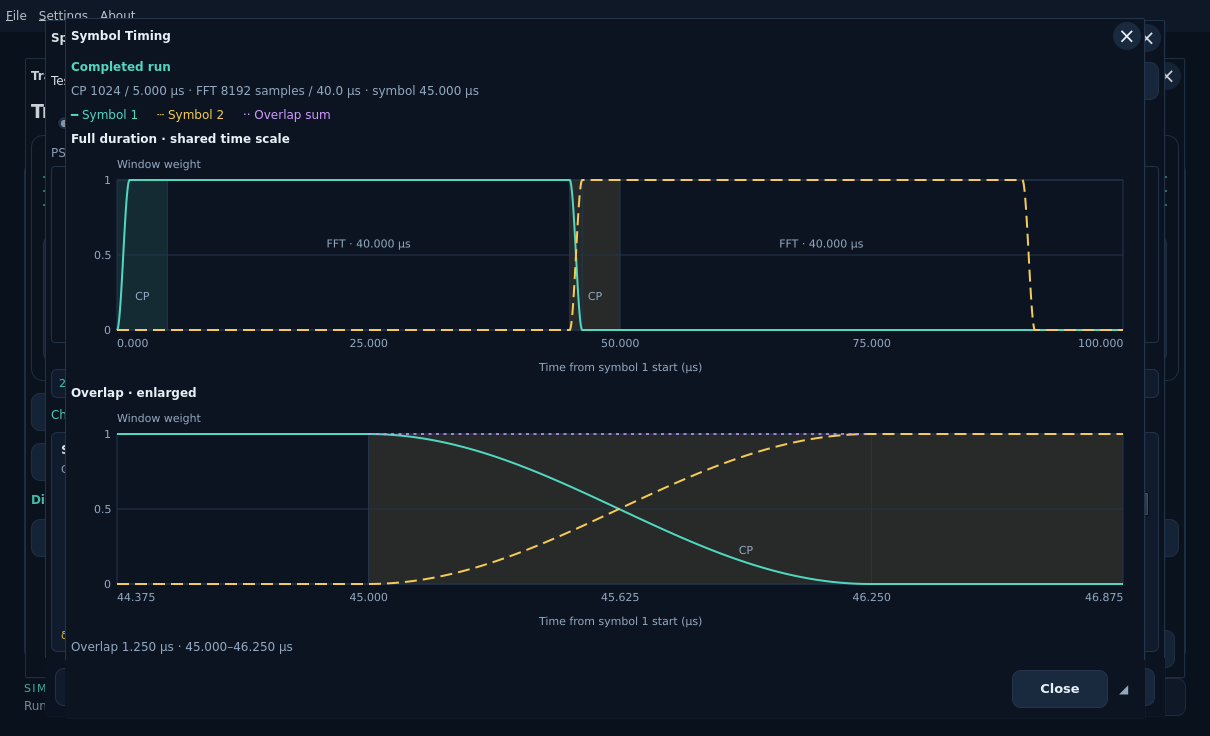
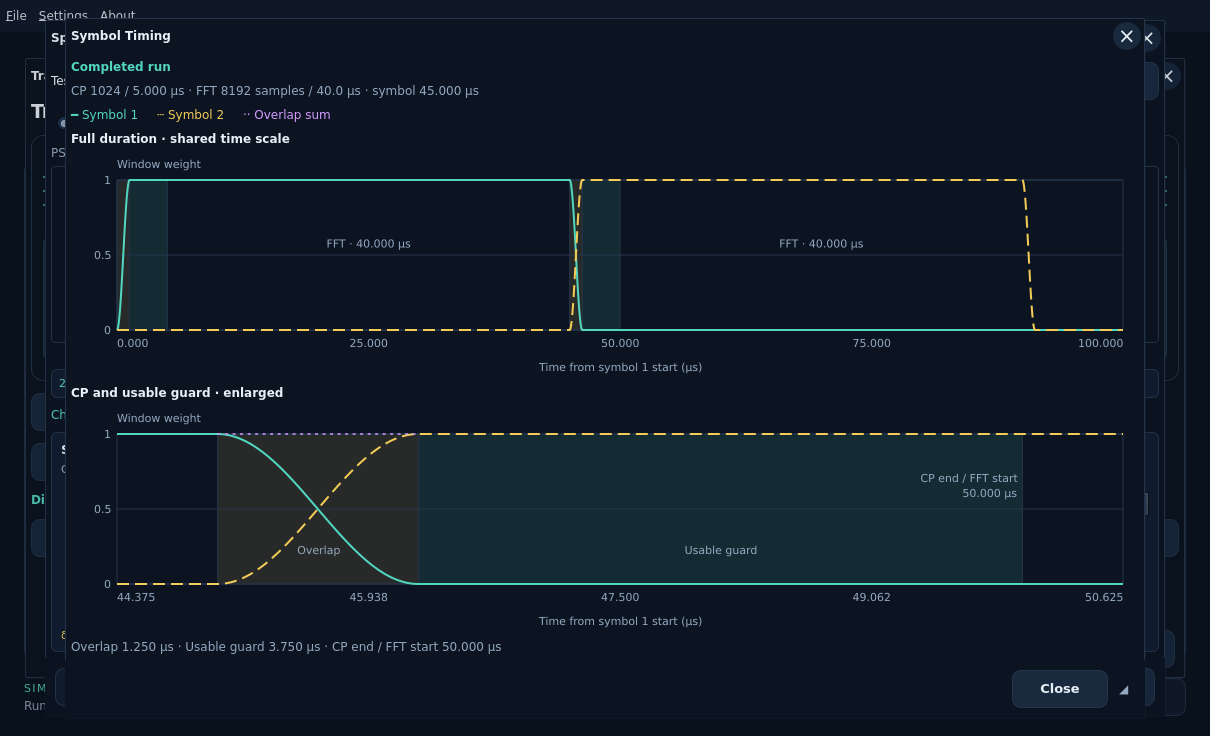
BugFix: Clarify cyclic prefix and usable guard - Separate overlap and usable guard shading - Show the full CP and label FFT start - Update architecture, guides and screenshots - Tests: 61 Rust and 54 QML checks pass - Verify Clippy, native build and dark/light views

diff --git a/apps/qt/qml/instruments/spectrum/SymbolTimingPlot.qml b/apps/qt/qml/instruments/spectrum/SymbolTimingPlot.qml
@@ -19,14 +19,14 @@ Canvas {
     onVisibleChanged: if (visible) requestPaint()
     Connections { target:plot.theme; function onDarkChanged() { plot.requestPaint() } }
     Accessible.role: Accessible.Graphic
-    Accessible.name: detail ? "Adjacent symbol overlap" : "Two complete transmit windows"
+    Accessible.name: detail ? "Adjacent symbol overlap and usable guard" : "Two complete transmit windows"
     onPaint: {
         const context=getContext("2d");context.reset()
         const left=miniature ? 24 : 46, top=miniature ? 8 : 24
         const w=width-left-16,h=height-top-(miniature ? 24 : 46)
         if (w<=0 || h<=0 || !(graph.points || []).length) return
         for (const band of graph.bands || []) {
-            context.fillStyle=band.symbol===0 ? theme.accent : theme.statusAttention
+            context.fillStyle=band.kind==="guard" ? theme.accent : theme.statusAttention
             context.globalAlpha=.12
             context.fillRect(left+band.x*w,top,(band.end_x-band.x)*w,h)
         }
@@ -64,12 +64,27 @@ Canvas {
         if (!miniature) {
             context.textAlign="center";context.fillText("Time from symbol 1 start (µs)",left+w/2,height-5)
             context.textAlign="left";context.fillText("Window weight",left,12)
+            if (detail) {
+                for (const marker of graph.markers || []) {
+                    const x=left+marker.x*w
+                    context.textAlign="left"
+                    if (marker.label==="CP end / FFT start") {
+                        context.textAlign=marker.x>.65 ? "right" : "left"
+                        const labelX=x+(marker.x>.65 ? -5 : 5)
+                        context.fillText(marker.label,labelX,top+h*.32)
+                        context.fillText(marker.time_label,labelX,top+h*.32+15)
+                    }
+                }
+            }
             for (const label of graph.fft_labels || []) {
                 context.textAlign="center";context.fillText(label.text,left+label.x*w,top+h*.45)
             }
             for (const band of graph.bands || []) {
                 if ((band.end_x-band.x)*w>28) {
-                    context.textAlign="center";context.fillText("CP",left+(band.x+band.end_x)*w/2,top+h*.8)
+                    const label=band.label || ""
+                    if (context.measureText(label).width+8<(band.end_x-band.x)*w) {
+                        context.textAlign="center";context.fillText(label,left+(band.x+band.end_x)*w/2,top+h*.8)
+                    }
                 }
             }
         }

diff --git a/apps/qt/tests/tst_workbench.qml b/apps/qt/tests/tst_workbench.qml
@@ -109,7 +109,7 @@ Pane {
         function poll() { return JSON.stringify({status: ready ? "complete" : "attention", reason: ready ? "Accepted source, profile and settings form a transmitter" : "Accept compatible OCD, DPD and PRBS-TX inputs to configure the transmitter.", tap_name: "TX Output", tap_id: "tx.overlap_add.samples", tap_description: "Complex baseband I/Q before channel", busy: busy, can_generate: ready && !busy, has_result: resultAvailable, result_token: token, progress: busy ? 0.5 : 0, message: ""}) }
         function timing(velocity) {
             if (!resultAvailable) { return JSON.stringify({points:[],ticks:[],error:"Run simulation"}) }
-            const graph={points:[{x:0,first:1,second:0,sum:null,readout:"0 µs"},{x:0.5,first:0.5,second:0.5,sum:1,readout:"Overlap"},{x:1,first:0,second:1,sum:null,readout:"100 µs"}],ticks:[{x:0,label:"0.000"},{x:1,label:"100.000"}],bands:[{x:0,end_x:0.05,symbol:0}],markers:[]}
+            const graph={points:[{x:0,first:1,second:0,sum:null,readout:"0 µs"},{x:0.5,first:0.5,second:0.5,sum:1,readout:"Overlap"},{x:1,first:0,second:1,sum:null,readout:"100 µs"}],ticks:[{x:0,label:"0.000"},{x:1,label:"100.000"}],bands:[{x:0,end_x:0.02,kind:"overlap",label:"Overlap"},{x:0.02,end_x:0.05,kind:"guard",label:"Usable guard"}],markers:[]}
             return JSON.stringify({source:"Transmitter preview",window:{overview:graph,detail:graph,overlap_label:"Overlap 0.625 µs"},points:[{x:0,coefficient:0},{x:0.2,coefficient:1},{x:1,coefficient:1}],ticks:[{x:0,label:"0"},{x:1,label:"3.125 µs"}],prefix_fraction:0.8,roll_off_fraction:0.2,overview:"CP 512 · FFT 8192 samples",roll_label:"δ 0.625 µs",guard_label:"Flat guard 1.875 µs",budget_label:"Ideal guard budget: 1.875 µs",extra_path:isNaN(velocity) ? "Unknown VF" : velocity === 0.87 ? "1604 ft" : "1512 ft",reflection_spacing:isNaN(velocity) ? "Unknown VF" : velocity === 0.87 ? "802 ft" : "756 ft"})
         }
         function view(start, count, captureAxis) {

diff --git a/apps/qt/qml/instruments/spectrum/SymbolTimingDialog.qml b/apps/qt/qml/instruments/spectrum/SymbolTimingDialog.qml
@@ -37,7 +37,7 @@ WorkbenchDialog {
         }
         Label {text:"Full duration · shared time scale";color:dialog.theme.text;font.bold:true}
         SymbolTimingPlot {objectName:"symbolTimingOverview";theme:dialog.theme;graph:dialog.windowData.overview || ({});Layout.fillWidth:true;Layout.fillHeight:true;Layout.minimumHeight:100}
-        Label {text:"Overlap · enlarged";color:dialog.theme.text;font.bold:true}
+        Label {text:"CP and usable guard · enlarged";color:dialog.theme.text;font.bold:true}
         SymbolTimingPlot {objectName:"symbolTimingOverlap";theme:dialog.theme;graph:dialog.windowData.detail || ({});detail:true;Layout.fillWidth:true;Layout.fillHeight:true;Layout.minimumHeight:100}
         Label {text:dialog.windowData.overlap_label || "";color:dialog.theme.muted;Layout.fillWidth:true;wrapMode:Text.WordWrap}
     }

diff --git a/apps/qt/src/instruments/spectrum/symbol_timing.rs b/apps/qt/src/instruments/spectrum/symbol_timing.rs
@@ -28,13 +28,13 @@ pub(crate) fn project(geometry: &WaveformGeometry) -> Value {
     let maximum_roll = usize::from(*ROLL_OFF_SAMPLES.last().unwrap());
     let margin = maximum_roll / 2;
     let detail_start = stride.saturating_sub(margin);
-    let detail_end = stride + maximum_roll + margin;
+    let detail_end = stride + usize::from(*CYCLIC_PREFIX_SAMPLES.last().unwrap()) + margin;
     json!({
         "prefix_us":microseconds(prefix),"roll_us":microseconds(roll),
         "fft_us":microseconds(geometry.fft_samples()),"symbol_us":microseconds(stride),
         "overview":plot(&window, geometry, 0, full_end),
         "detail":plot(&window, geometry, detail_start, detail_end),
-        "overlap_label":format!("Overlap {:.3} µs · {:.3}–{:.3} µs",microseconds(roll),microseconds(stride),microseconds(stride+roll)),
+        "overlap_label":format!("Overlap {:.3} µs · Usable guard {:.3} µs · CP end / FFT start {:.3} µs",microseconds(roll),microseconds(prefix-roll),microseconds(stride+prefix)),
         "origin_note":"Window weights, not RF signal amplitude."
     })
 }
@@ -93,18 +93,37 @@ fn plot(window: &TransmitWindow, geometry: &WaveformGeometry, start: usize, end:
         .collect::<Vec<_>>();
     let bands = [0, stride]
         .into_iter()
-        .enumerate()
-        .filter_map(|(symbol, origin)| {
-            let left = origin.max(start);
-            let right = (origin + prefix).min(end);
-            (right > left)
-                .then(|| json!({"x":coordinate(left),"end_x":coordinate(right),"symbol":symbol}))
+        .flat_map(|origin| {
+            [
+                (origin, origin + roll, "overlap", "Overlap"),
+                (origin + roll, origin + prefix, "guard", "Usable guard"),
+            ]
+            .into_iter()
+            .filter_map(move |(left, right, kind, label)| {
+                let left = left.max(start);
+                let right = right.min(end);
+                (right > left).then(|| {
+                    json!({"x":coordinate(left),"end_x":coordinate(right),
+                        "kind":kind,"label":label})
+                })
+            })
         })
         .collect::<Vec<_>>();
-    let markers = [prefix, stride, stride + roll, stride + prefix]
+    let markers = [0, stride]
         .into_iter()
-        .filter(|index| *index >= start && *index <= end)
-        .map(|index| json!({"x":coordinate(index)}))
+        .flat_map(|origin| {
+            [
+                (origin, "CP start"),
+                (origin + roll, "Overlap end"),
+                (origin + prefix, "CP end / FFT start"),
+            ]
+            .into_iter()
+            .filter(|(index, _)| *index >= start && *index <= end)
+            .map(|(index, label)| {
+                json!({"x":coordinate(index),"label":label,
+                    "time_label":format!("{:.3} µs",microseconds(index))})
+            })
+        })
         .collect::<Vec<_>>();
     let fft_labels = [0,stride].into_iter().filter_map(|origin| {
         let left = origin+prefix;
@@ -136,6 +155,25 @@ mod tests {
                     let geometry = WaveformGeometry::new(&settings).unwrap();
                     let report = project(&geometry);
                     let overview = &report["overview"];
+                    let detail = &report["detail"];
+                    let cp_end_us = microseconds(geometry.stride_samples() + usize::from(prefix));
+                    assert!(detail["end_us"].as_f64().unwrap() > cp_end_us);
+                    let guard = detail["bands"]
+                        .as_array()
+                        .unwrap()
+                        .iter()
+                        .find(|band| band["kind"] == "guard")
+                        .unwrap();
+                    let span =
+                        detail["end_us"].as_f64().unwrap() - detail["start_us"].as_f64().unwrap();
+                    let guard_us =
+                        (guard["end_x"].as_f64().unwrap() - guard["x"].as_f64().unwrap()) * span;
+                    assert!((guard_us - f64::from(prefix - roll) / 204.8).abs() < 1e-12);
+                    assert!(detail["markers"]
+                        .as_array()
+                        .unwrap()
+                        .iter()
+                        .any(|marker| marker["label"] == "CP end / FFT start"));
                     assert!(overview["points"].as_array().unwrap().len() <= 550);
                     assert!(
                         overview["end_us"].as_f64().unwrap()

diff --git a/docs/user/spectrum-analyzer.md b/docs/user/spectrum-analyzer.md
@@ -104,8 +104,10 @@ See [workbench readiness](workbench.md), [PRBS-TX](source-input.md) and
 Below the PSD, **Symbol Timing · Two Symbols** shows two complete transmit
 windows on one real time axis. Click the graph, or focus it and press Space or
 Enter, to open **Symbol Timing**. Drag the lower-right corner to resize the
-popup. It contains a full-duration view and an enlarged overlap view, with CP
-regions shaded. Symbol 1 is solid, Symbol 2 dashed, and the overlap sum dotted.
+popup. It contains a full-duration view and an enlarged CP view. Amber marks
+the overlap; teal marks the remaining usable flat guard. The labeled CP end
+is the FFT start, not the edge of the plot. Symbol 1 is solid, Symbol 2 dashed,
+and the overlap sum dotted.
 Hover for the displayed time and actual window weights. These are dimensionless
 weights, not the time-domain I/Q signal amplitude.
 
@@ -116,7 +118,10 @@ can be inspected without running payload simulation. Draft edits do not change
 the graph. The full time scale stays fixed for each FFT size; CP changes move
 symbol starts and roll-off changes alter the taper/overlap width. The detail
 view keeps a fixed span relative to the second-symbol start so roll-off changes
-remain visible. CP minus roll-off is the flat guard interval.
+remain visible. It includes the full CP and some FFT time after it. CP minus
+roll-off is the flat guard interval. With an 8192-sample FFT and CP512/RP128,
+the second symbol starts at 42.500 µs, overlap ends at 43.125 µs and the CP ends at 45.000 µs.
+The usable guard is therefore 1.875 µs; useful FFT time begins at 45.000 µs.
 
 ![Expanded symbol timing and overlap](../images/workbench/symbol-timing-expanded-dark.png)
 

diff --git a/docs/development/features/symbol-timing-popup/design.md b/docs/development/features/symbol-timing-popup/design.md
@@ -14,8 +14,8 @@ edits do not apply. Applying settings invalidates old results and refreshes the
 current timing projection without requiring payload simulation. VF changes only
 the cable-distance estimate. Keep timing and cable configuration read-only here.
 
-Return bounded overview/detail curves, labels, ticks and CP bands; no changes to
-simulation, core public APIs or WB JSON. Test all supported CP/RP pairs and both
+Return bounded overview/detail curves, labels, ticks and overlap/usable-guard
+bands; no changes to simulation, core public APIs or WB JSON. Test all supported CP/RP pairs and both
 FFTs, overlap complementarity from independent expectations, actual core sample
 identity, domains, configuration refresh, origin labels and VF invariance. Check
 QML navigation, keyboard, resize bounds and empty states, then native dark/light
@@ -27,7 +27,10 @@ The existing compact plot is now a full two-window overview and opens the
 resizable popup by click, Space or Enter. Separate graph and popup QML files
 share the same bounded Rust data. The overview domain is 100 µs for 8192 FFT
 samples and 60 µs for 4096; changing CP/RP does not rescale it. Overlap detail
-uses a 512-sample span relative to the second-symbol start.
+uses a fixed 1280-sample span relative to the second-symbol start, including
+the full maximum CP and a margin after FFT start. Amber marks overlap, teal
+marks usable flat guard (CP minus roll-off), and CP end / FFT start is labeled.
+The plot edge never represents an implicit CP boundary.
 
 ```mermaid
 flowchart LR

diff --git a/docs/development/checklist.md b/docs/development/checklist.md
@@ -1114,7 +1114,8 @@ validation are complete; the user guide includes the current dark capture.
   [Design](features/responsive-workbench-open/design.md#ui-wb-open-04--quiet-loading-and-command-line-workbenches).
 
 - [x] **UI-SA-TIMING-02** Expand the compact timing plot into a resizable full
-  two-symbol and overlap view. Use actual core window weights, stable time axes,
+  two-symbol and overlap view. Distinguish overlap from usable guard and label
+  CP end / FFT start. Use actual core window weights, stable time axes,
   explicit result/current-configuration source and accepted-setting refresh.
   Verified both FFTs, all CP/RP pairs, keyboard/resize and native dark/light UI;
   61 Rust tests, 54 QML checks, Clippy and native build pass.

diff --git a/docs/architecture.md b/docs/architecture.md
@@ -2064,7 +2064,8 @@ The shared SA timing panel opens a resizable Symbol Timing popup. A bounded
 Rust projection in `instruments/spectrum/symbol_timing.rs` reads the actual core
 TransmitWindow coefficients for two adjacent symbols and their overlap; QML
 only renders coordinates, labels and shading. The overview domain is fixed per
-FFT size, and overlap detail uses a fixed sample span relative to the second
+FFT size. Detail separates overlap from usable flat guard and labels CP end /
+FFT start; its fixed sample span includes the maximum CP relative to the second
 symbol start. Tapers retain exact half-sample weights and zero outside support.
 
 The transmitter analyzer retains accepted OCD geometry independently of sample
